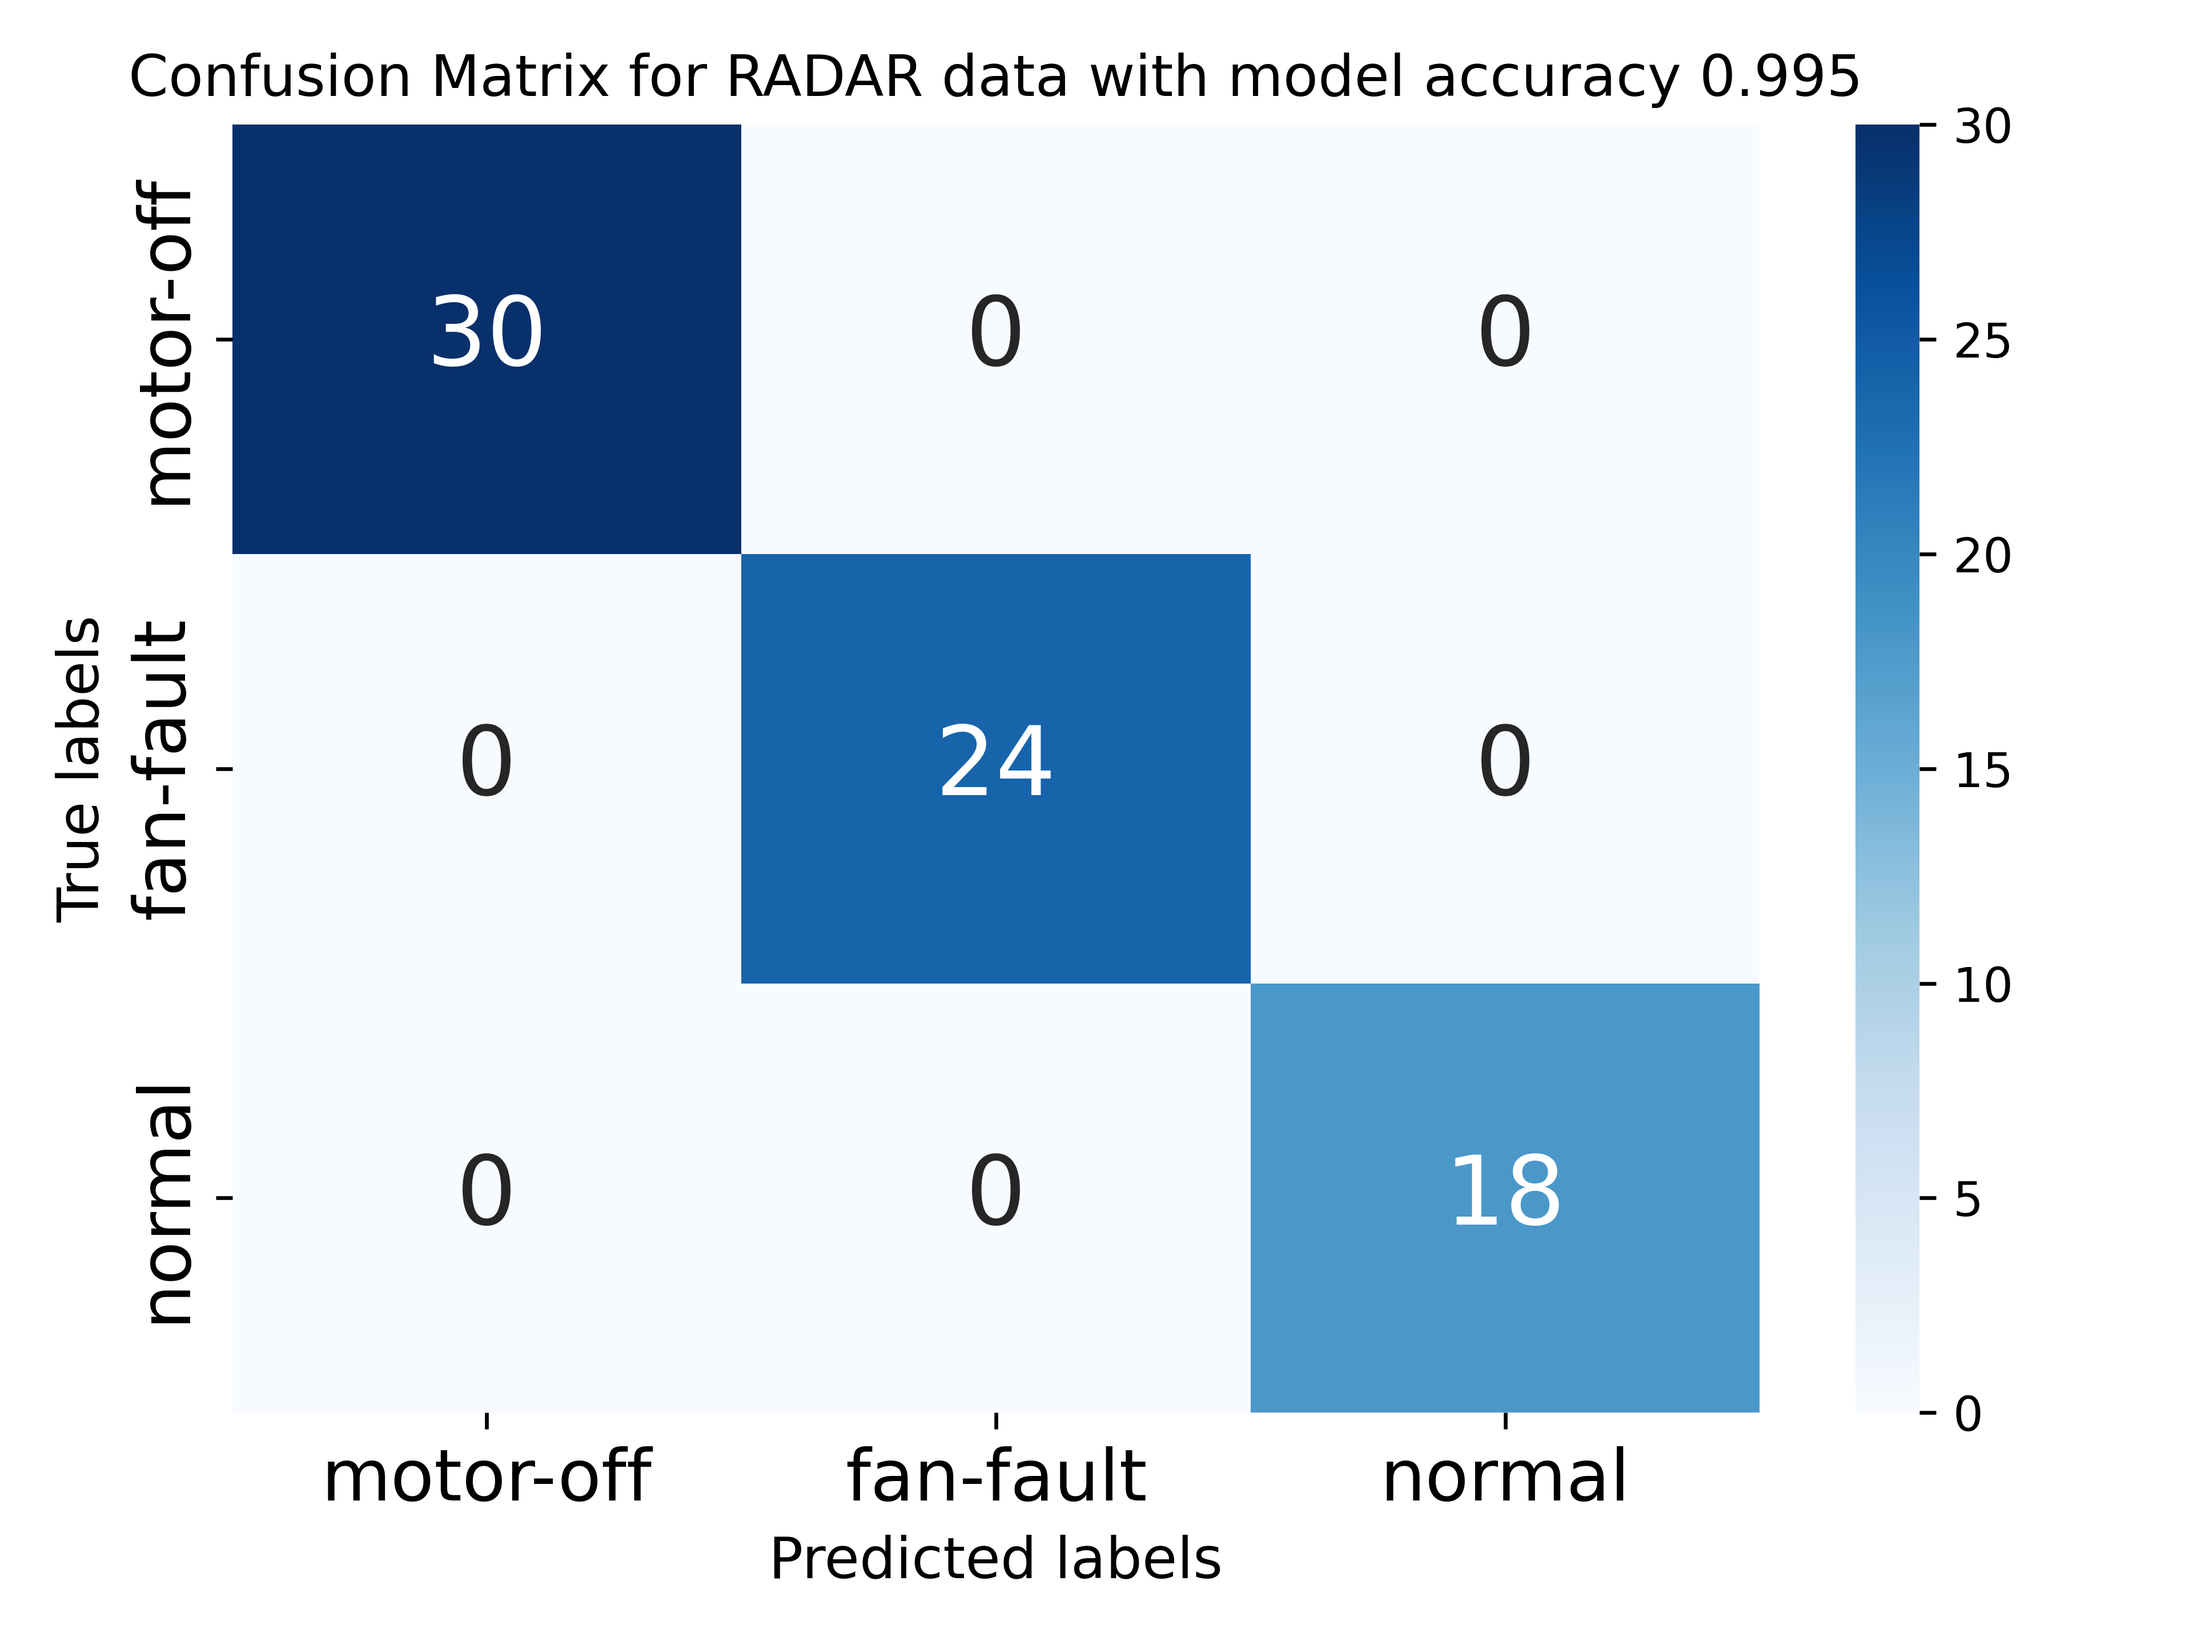
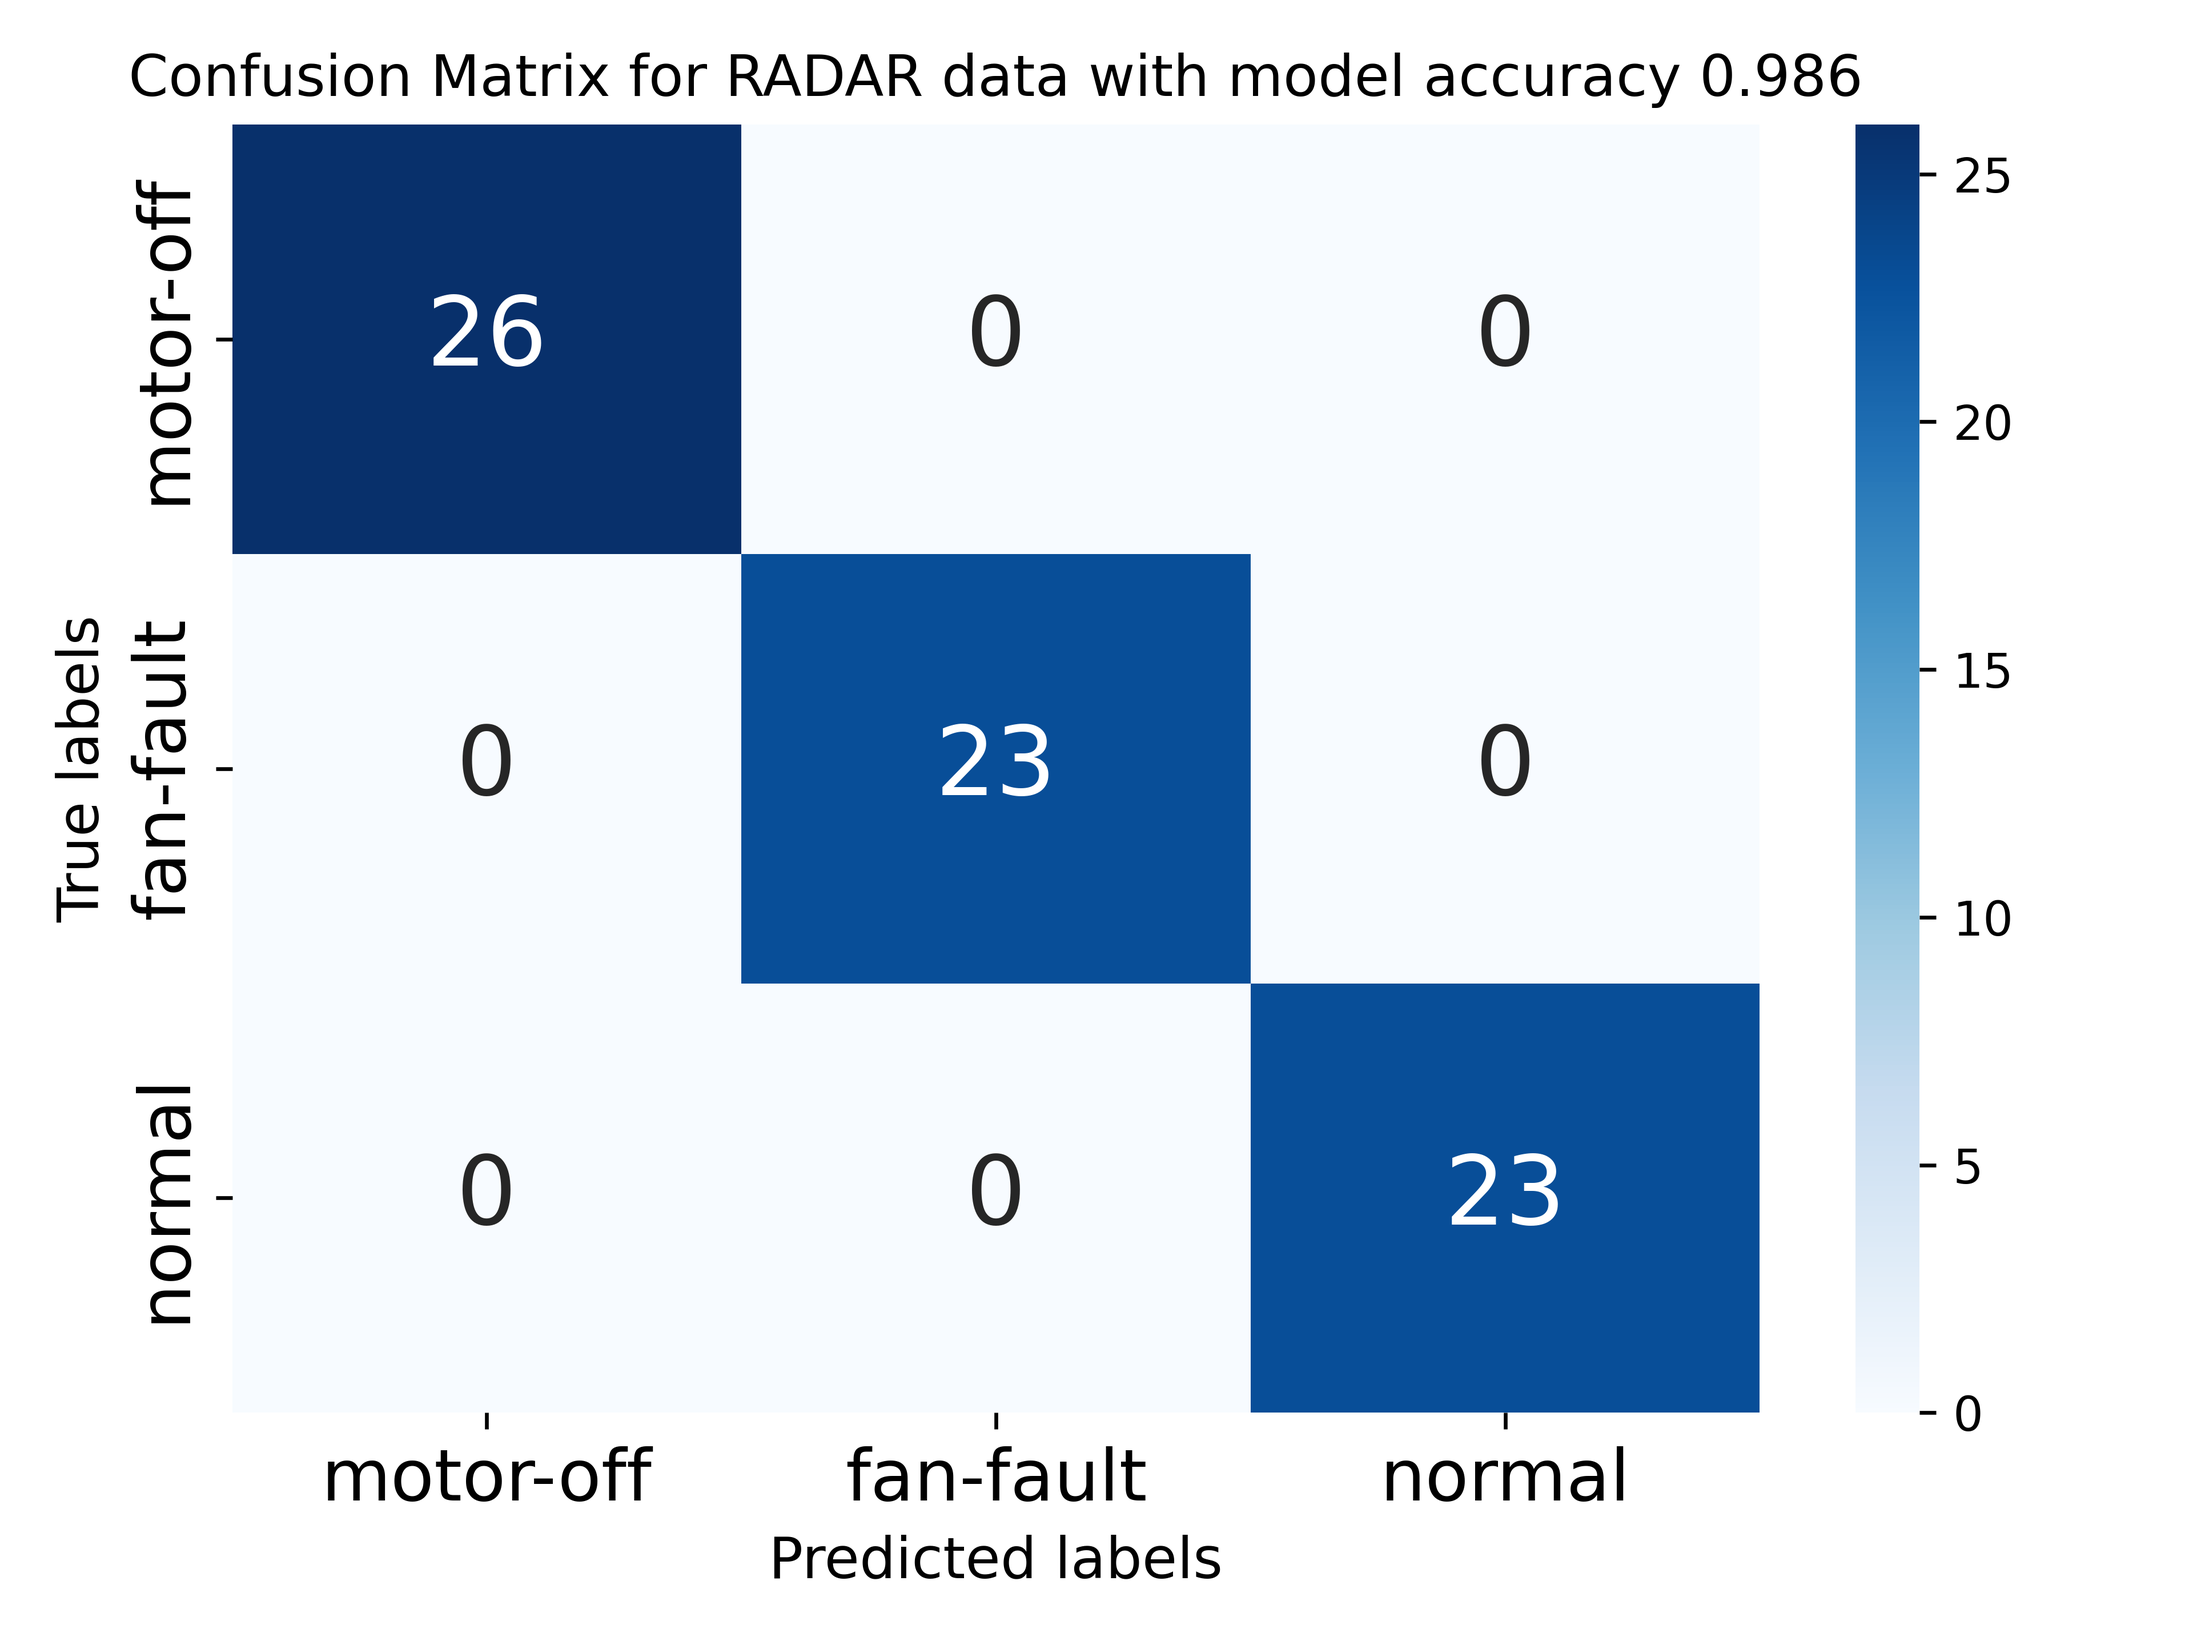
working commit

diff --git a/fault-classifier.py b/fault-classifier.py
@@ -29,21 +29,47 @@ train_dataset = tf.data.Dataset.from_tensor_slices((x_train, y_train))
 validation_dataset = tf.data.Dataset.from_tensor_slices((x_val, y_val))
 test_dataset = tf.data.Dataset.from_tensor_slices((x_test, y_test))
 
-model = tf.keras.Sequential([
-    tf.keras.layers.Reshape((16, 128, 1), input_shape=x_train.shape[1:]),
-    tf.keras.layers.Conv2D(16, (2, 2), activation='relu'),
-    tf.keras.layers.MaxPooling2D(2, 2),
-    tf.keras.layers.Conv2D(16, (2, 2), activation='relu'),
-    tf.keras.layers.MaxPooling2D(2, 2),
-    tf.keras.layers.Conv2D(8, (2, 2), activation='relu', padding='same'),  # Use 'same' padding to maintain dimensions
-    tf.keras.layers.MaxPooling2D((1, 2)),  # Adjust pooling to only reduce width
+# model = tf.keras.Sequential([
+#     tf.keras.layers.Reshape((16, 128, 1), input_shape=x_train.shape[1:]),
+#     tf.keras.layers.Conv2D(16, (2, 2), activation='relu'),
+#     tf.keras.layers.MaxPooling2D(2, 2),
+#     tf.keras.layers.Conv2D(16, (2, 2), activation='relu'),
+#     tf.keras.layers.MaxPooling2D(2, 2),
+#     tf.keras.layers.Conv2D(8, (2, 2), activation='relu', padding='same'),  # Use 'same' padding to maintain dimensions
+#     tf.keras.layers.MaxPooling2D((1, 2)),  # Adjust pooling to only reduce width
+#
+#     tf.keras.layers.Flatten(),
+#     tf.keras.layers.Dense(64, activation='relu'),
+#     tf.keras.layers.Dense(classes, activation='softmax')
+# ])
 
-    tf.keras.layers.Flatten(),
+model = tf.keras.models.Sequential([
+    # Input layer
+    tf.keras.layers.Input(shape=(16, 128, 1)),
+
+    # First convolutional layer
+    tf.keras.layers.Conv2D(16, (2, 2), activation='relu', padding='same'),
+    tf.keras.layers.MaxPooling2D(pool_size=(2, 3)),  # Pooling in time (2) and frequency (3)
+
+    # Second convolutional layer
+    tf.keras.layers.Conv2D(16, (2, 2), activation='relu', padding='same'),
+    tf.keras.layers.MaxPooling2D(pool_size=(2, 2)),
+
+    # Reshape for GRU input
+    tf.keras.layers.Reshape((4, -1)),  # Reshape to (time_steps, features). Adjust as per final CNN output shape.
+
+    # GRU layer
+    tf.keras.layers.GRU(30, activation='tanh', return_sequences=False),  # Outputs a single feature vector
+
+    # Dense layer
     tf.keras.layers.Dense(64, activation='relu'),
+
+    # Output layer
     tf.keras.layers.Dense(classes, activation='softmax')
 ])
 
-# model.summary()
+
+model.summary()
 
 model.compile(loss=tf.keras.losses.CategoricalCrossentropy(),
               optimizer=tf.keras.optimizers.Adam(learning_rate=0.001), metrics=['acc'])
